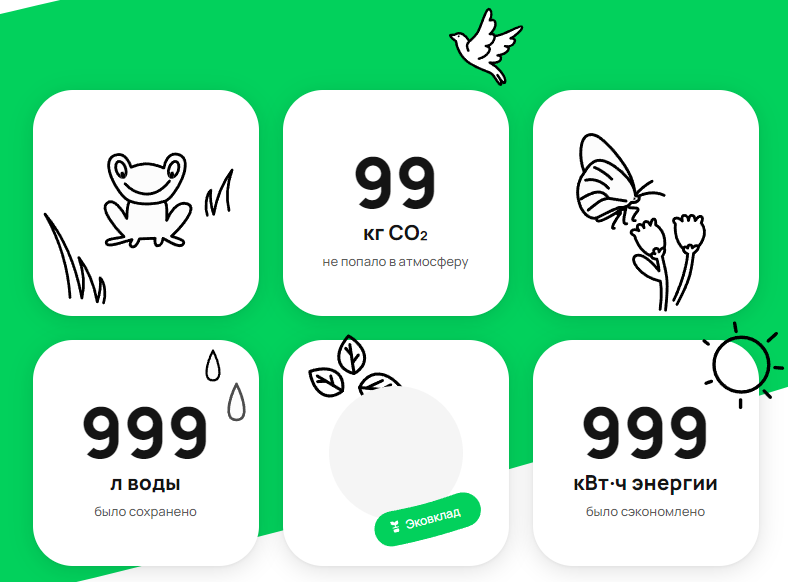
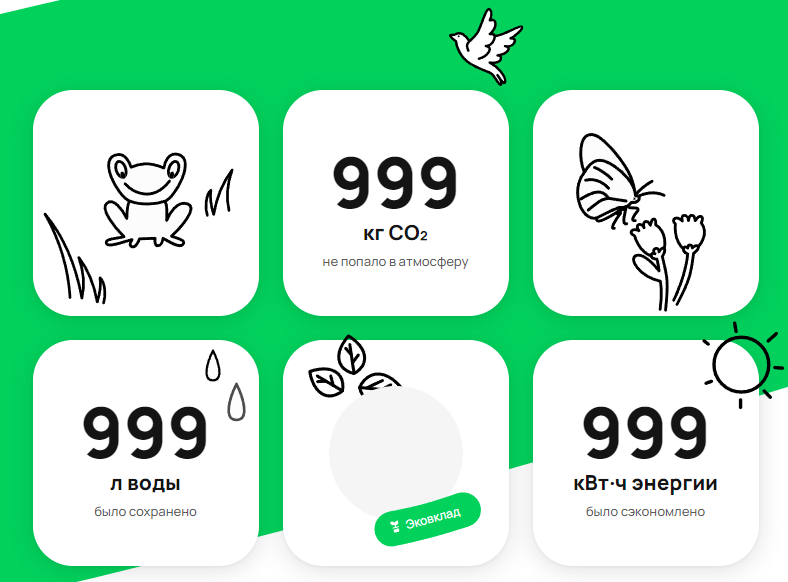
minor fixes

Changed region(s): [[0.4264, 0.2474, 0.5787, 0.3711]]

diff --git a/second/TestElements.py b/second/TestElements.py
@@ -36,7 +36,7 @@ class TestElements:
                 "blocks": {
                     "personalImpact": {
                         "data": {
-                            "co2": 99
+                            "co2": 999
                             ,
                             "energy": 999,
                             "materials": 14,

diff --git a/second/TESTCASES.md b/second/TESTCASES.md
@@ -1,7 +1,7 @@
 # Тесткейсы
 |TestCase №|CO2|Est.|Water|Est.|Energy|Est.|
 |--|--|--|--|--|--|--|
-|Testcase 1|0|Кг.|0|Дизейбл|0|Ватт|
+|Testcase 1|0|Дизейбл|0|Дизейбл|0|Дизейбл|
 |Testcase 2|999|Кг.|999|Литры|999|кВт.|
 |Testcase 3|1000|Тонн|1000|м**³**|1000|кВт.|
 |Testcase 4|999999|Млн. кг.|999999|м**³**|999999|мВт.|

diff --git a/second/output/README.md b/second/output/README.md
@@ -1,7 +1,7 @@
 ## Testcase 1
 |CO2|Est.|Water|Est.|Energy|Est.|
 |--|--|--|--|--|--|
-|0|Кг.|0|Дизейбл|0|Ватт|
+|0|Дизейбл|0|Дизейбл|0|Дизейбл|
 
 ![T1](https://github.com/k4dms/avitoqa/blob/main/second/output/Testcase1.png)
 ## Testcase 2
